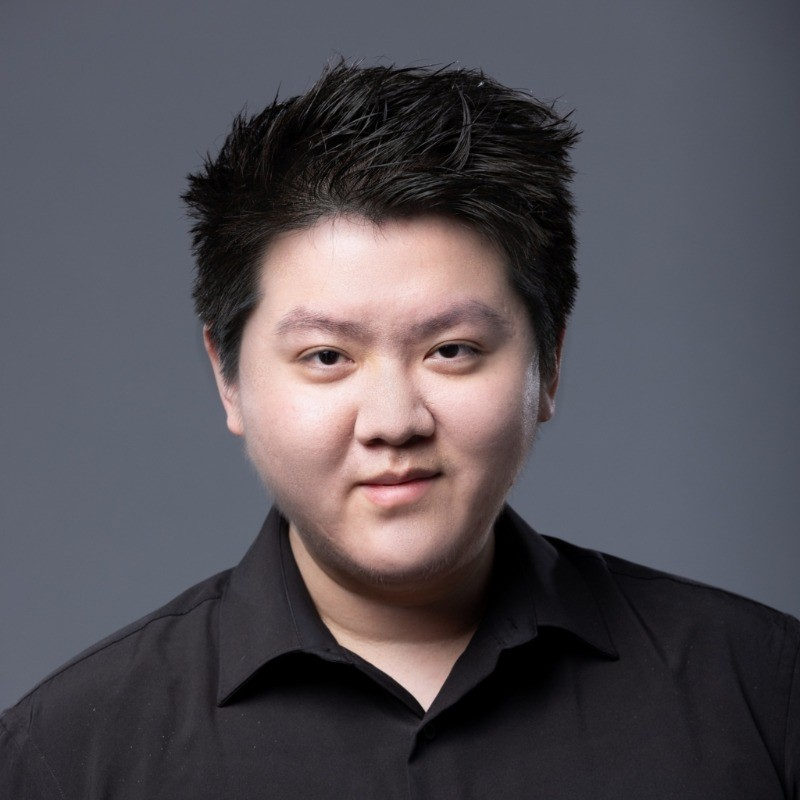
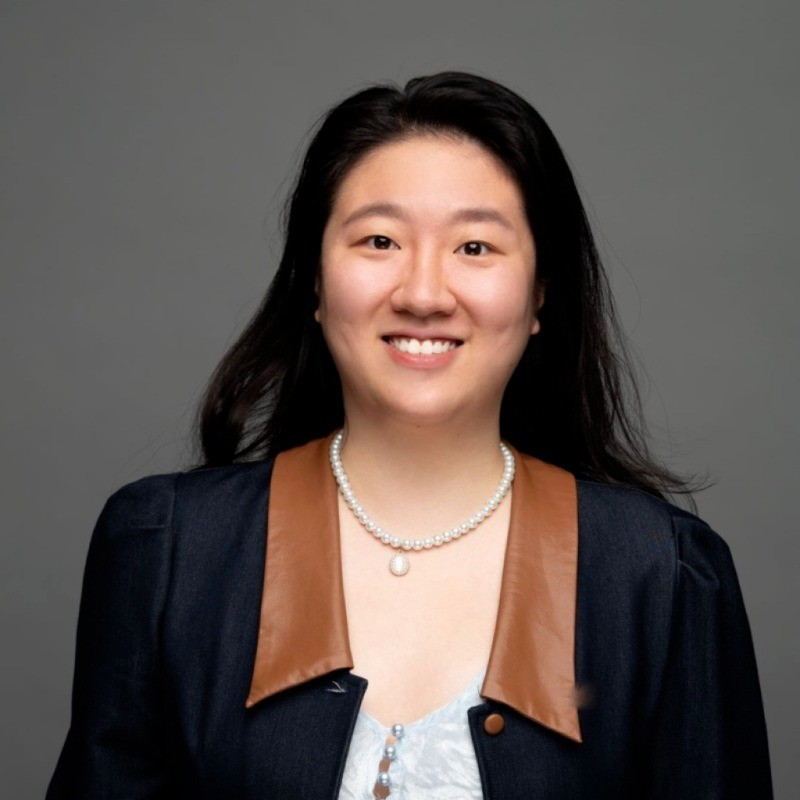
updates

diff --git a/index.html b/index.html
@@ -50,10 +50,10 @@
             <div class="hamburger-menu">
               <img src="/assets/hamburger_icon_dropdown.png" alt="Hamburger Menu" class="hamburger-icon">
             </div>
-            <!-- Dropdown Menu -->
+            <!-- Dropdown Menu --> 
             <div class="dropdown-menu">
               <ul class="dropdown-list">
-                <li><a href="https://www.irisli.com" class="text-white nav-link">Home</a></li>
+                <li><a href="./" class="text-white nav-link">Home</a></li>
               </ul>
             </div>
             <script>
@@ -74,86 +74,36 @@
     <div class="hero-section wf-section">
       <div>
         <div class="bg-image home-hero">
-          <div class="overlay"> <!--Transparent overlay to prevent others from right clicking or saving the video-->
-            <!--Background mp4-->
-            <!--
-            <video autoplay muted loop playsinline class="background-video">
-              <source src="https://cdn.irisli.com/ny_timelapse.mp4" type="video/mp4">
-            </video>
-            -->
+          <div class="overlay">
             <video autoplay muted loop playsinline class="background-video" id="videoPlayer">
-              <!--<source id="videoSource" type="video/mp4">--> <!--Video during time of day-->
-              <!--<source src="https://cdn.irisli.com/clouds.mp4" type="video/mp4">-->
               <source src="https://cdn.samsonqian.com/tokyo_driving.mp4" type="video/mp4">
             </video>
-            <script>
-              const videoSource = document.getElementById('videoSource');
-              const currentHour = new Date().getHours(); // Get the current hour (0-23)
-      
-              // Define daytime (e.g., 6 AM to 6 PM)
-              const isDaytime = currentHour >= 6 && currentHour < 18;
-      
-              // Set the video source based on the time of day
-              if (isDaytime) {
-                  videoSource.src = "https://cdn.samsonqian.com/clouds.mp4"; // Replace with your daytime video file
-              } else {
-                  videoSource.src = "https://cdn.samsonqian.com/ny_timelapse.mp4"; // Replace with your evening video file
-              }
-      
-              console.log('Current hour: ', currentHour);  // Check the time
-              console.log('Video source set to: ', isDaytime ? 'https://cdn.samsonqian.com/clouds.mp4' : 'https://cdn.samsonqian.com/ny_timelapse.mp4');
-      
-              // Reload the video to apply the new source
-              document.getElementById('videoPlayer').load();
-            </script>
           </div>
         </div>
       </div>
       <div class="container hero-container">
         <div class="hero-content-container">
           <h1 style="opacity:1" class="heading-one-xl hero-heading">Ruisi Li</h1>
-          <!--<h4 style="opacity:1" class="hero-subtitle">Master of Finance @ MIT</h4>-->
           <div>
             <ul role="list" class="social-links-list w-list-unstyled">
               <li class="social-links-list-item">
-                <a href="mailto: [email redacted]" class="social-link social-link-white w-inline-block"><img src="images/mail.png" alt="" class="social-link-image"></a>
+                <a href="mailto: [email redacted]" class="social-link social-link-white w-inline-block"><img src="images/mail.png" alt="" class="social-link-image"></a>
               </li>
               <li class="social-links-list-item">
-                <a href="http://www.linkedin.com/in/irisli" class="social-link social-link-white w-inline-block"><img src="images/social-linkedin.svg" alt="" class="social-link-image"></a>
+                <a href="https://www.linkedin.com/in/ruisi-iris-li/" class="social-link social-link-white w-inline-block"><img src="images/social-linkedin.svg" alt="" class="social-link-image"></a>
               </li>
               <li class="social-links-list-item">
-                <a href="http://www.instagram.com/irisli" class="social-link social-link-white w-inline-block"><img src="images/social-instagram.svg" alt="" class="social-link-image"></a>
+                <a href="https://www.instagram.com/irisl728" class="social-link social-link-white w-inline-block"><img src="images/social-instagram.svg" alt="" class="social-link-image"></a>
               </li>
               <li class="social-links-list-item">
-                <a href="http://www.facebook.com/irisli/" class="social-link social-link-white w-inline-block"><img src="images/social-facebook.svg" alt="" class="social-link-image"></a>
-              </li>
-              <li class="social-links-list-item">
-                <a href="http://twitter.com/irisli" class="social-link social-link-white w-inline-block"><img src="images/social-twitter.svg" alt="" class="social-link-image"></a>
-              </li>
-              <li class="social-links-list-item">
-                <a href="http://www.github.com/samsonq" class="social-link social-link-white w-inline-block"><img src="images/github.png" alt="" class="social-link-image"></a>
-              </li>
-              <li class="social-links-list-item">
-                <a href="http://www.kaggle.com/irisli" class="social-link social-link-white w-inline-block"><img src="images/kaggle.png" alt="" class="social-link-image"></a>
-              </li>
-              <li class="social-links-list-item">
-                <a href="http://irisli.mit.edu" class="social-link social-link-white w-inline-block"><img src="images/mit_logo_inverted.png" alt="" class="social-link-image"></a>
-              </li>
-              <li class="social-links-list-item">
-                <a href="https://brokercheck.finra.org/individual/summary/7509697" class="social-link social-link-white w-inline-block"><img src="images/finra_logo.png" alt="" class="social-link-image"></a>
-              </li>
+                <a href="https://www.facebook.com/profile.php?id=100040951236038" class="social-link social-link-white w-inline-block"><img src="images/social-facebook.svg" alt="" class="social-link-image"></a>
             </ul>
           </div>
           <div style="padding-top:30px">
             <audio id="home" controls autoplay loop>
-              <!--<source src="assets/music/ado_stay_gold.mp3" type="audio/mpeg">-->
-              <!--<source src="assets/music/ado_hibana.mp3" type="audio/mpeg">-->
-              <!--<source src="assets/music/eva.mp3" type="audio/mpeg">-->
-              <!--<source src="assets/music/ado_staygold_full.mp3" type="audio/mpeg">-->
               <source src="assets/music/AWAKE.mp3" type="audio/mpeg">
             </audio>
           </div>
-          <!--<a href="#about" style="opacity:1;-webkit-transform:translate3d(0, -30PX, 0) scale3d(1, 1, 1) rotateX(0) rotateY(0) rotateZ(0) skew(0, 0);-moz-transform:translate3d(0, -30PX, 0) scale3d(1, 1, 1) rotateX(0) rotateY(0) rotateZ(0) skew(0, 0);-ms-transform:translate3d(0, -30PX, 0) scale3d(1, 1, 1) rotateX(0) rotateY(0) rotateZ(0) skew(0, 0);transform:translate3d(0, -30PX, 0) scale3d(1, 1, 1) rotateX(0) rotateY(0) rotateZ(0) skew(0, 0)" class="button-icon hero-next-button w-inline-block"><img src="images/icon-arrow-down.svg" alt="" title="Learn more about me!"></a>-->
         </div>
       </div>
       <div data-w-id="eb932dbb-19c7-a38e-6f4a-e8d79560b11f" class="decoration ring home-hero-ring"></div>
@@ -164,37 +114,22 @@
         <div class="container">
           <div class="row text-small info-bar-row">
             <div class="column footer-details-column">
-              <div>©Copyright <script>document.write(new Date().getFullYear())</script> <a href="https://irisli.com" target="_blank" class="text-white">Ruisi Li</a>
+              <div>©Copyright <script>document.write(new Date().getFullYear())</script> <a href="./" target="_blank" class="text-white">Ruisi Li</a>
               </div>
             </div>
             <div class="column">
               <ul role="list" class="social-links-list w-list-unstyled">
                 <li class="social-links-list-item">
-                  <a href="mailto: [email redacted]" class="social-link social-link-white w-inline-block"><img src="images/mail.png" alt="" class="social-link-image"></a>
+                  <a href="mailto: [email redacted]" class="social-link social-link-white w-inline-block"><img src="images/mail.png" alt="" class="social-link-image"></a>
                 </li>
                 <li class="social-links-list-item">
-                  <a href="http://www.linkedin.com/in/irisli" class="social-link social-link-white w-inline-block"><img src="images/social-linkedin.svg" alt="" class="social-link-image"></a>
+                  <a href="https://www.linkedin.com/in/ruisi-iris-li/" class="social-link social-link-white w-inline-block"><img src="images/social-linkedin.svg" alt="" class="social-link-image"></a>
                 </li>
                 <li class="social-links-list-item">
-                  <a href="http://www.instagram.com/irisli" class="social-link social-link-white w-inline-block"><img src="images/social-instagram.svg" alt="" class="social-link-image"></a>
+                  <a href="https://www.instagram.com/irisl728" class="social-link social-link-white w-inline-block"><img src="images/social-instagram.svg" alt="" class="social-link-image"></a>
                 </li>
                 <li class="social-links-list-item">
-                  <a href="http://www.facebook.com/irisli/" class="social-link social-link-white w-inline-block"><img src="images/social-facebook.svg" alt="" class="social-link-image"></a>
-                </li>
-                <li class="social-links-list-item">
-                  <a href="http://twitter.com/irisli" class="social-link social-link-white w-inline-block"><img src="images/social-twitter.svg" alt="" class="social-link-image"></a>
-                </li>
-                <li class="social-links-list-item">
-                  <a href="http://www.github.com/samsonq" class="social-link social-link-white w-inline-block"><img src="images/github.png" alt="" class="social-link-image"></a>
-                </li>
-                <li class="social-links-list-item">
-                  <a href="http://www.kaggle.com/irisli" class="social-link social-link-white w-inline-block"><img src="images/kaggle.png" alt="" class="social-link-image"></a>
-                </li>
-                <li class="social-links-list-item">
-                  <a href="http://irisli.mit.edu" class="social-link social-link-white w-inline-block"><img src="images/mit_logo_inverted.png" alt="" class="social-link-image"></a>
-                </li>
-                <li class="social-links-list-item">
-                  <a href="https://brokercheck.finra.org/individual/summary/7509697" class="social-link social-link-white w-inline-block"><img src="images/finra_logo.png" alt="" class="social-link-image"></a>
+                  <a href="https://www.facebook.com/profile.php?id=100040951236038" class="social-link social-link-white w-inline-block"><img src="images/social-facebook.svg" alt="" class="social-link-image"></a>
                 </li>
               </ul>
             </div>